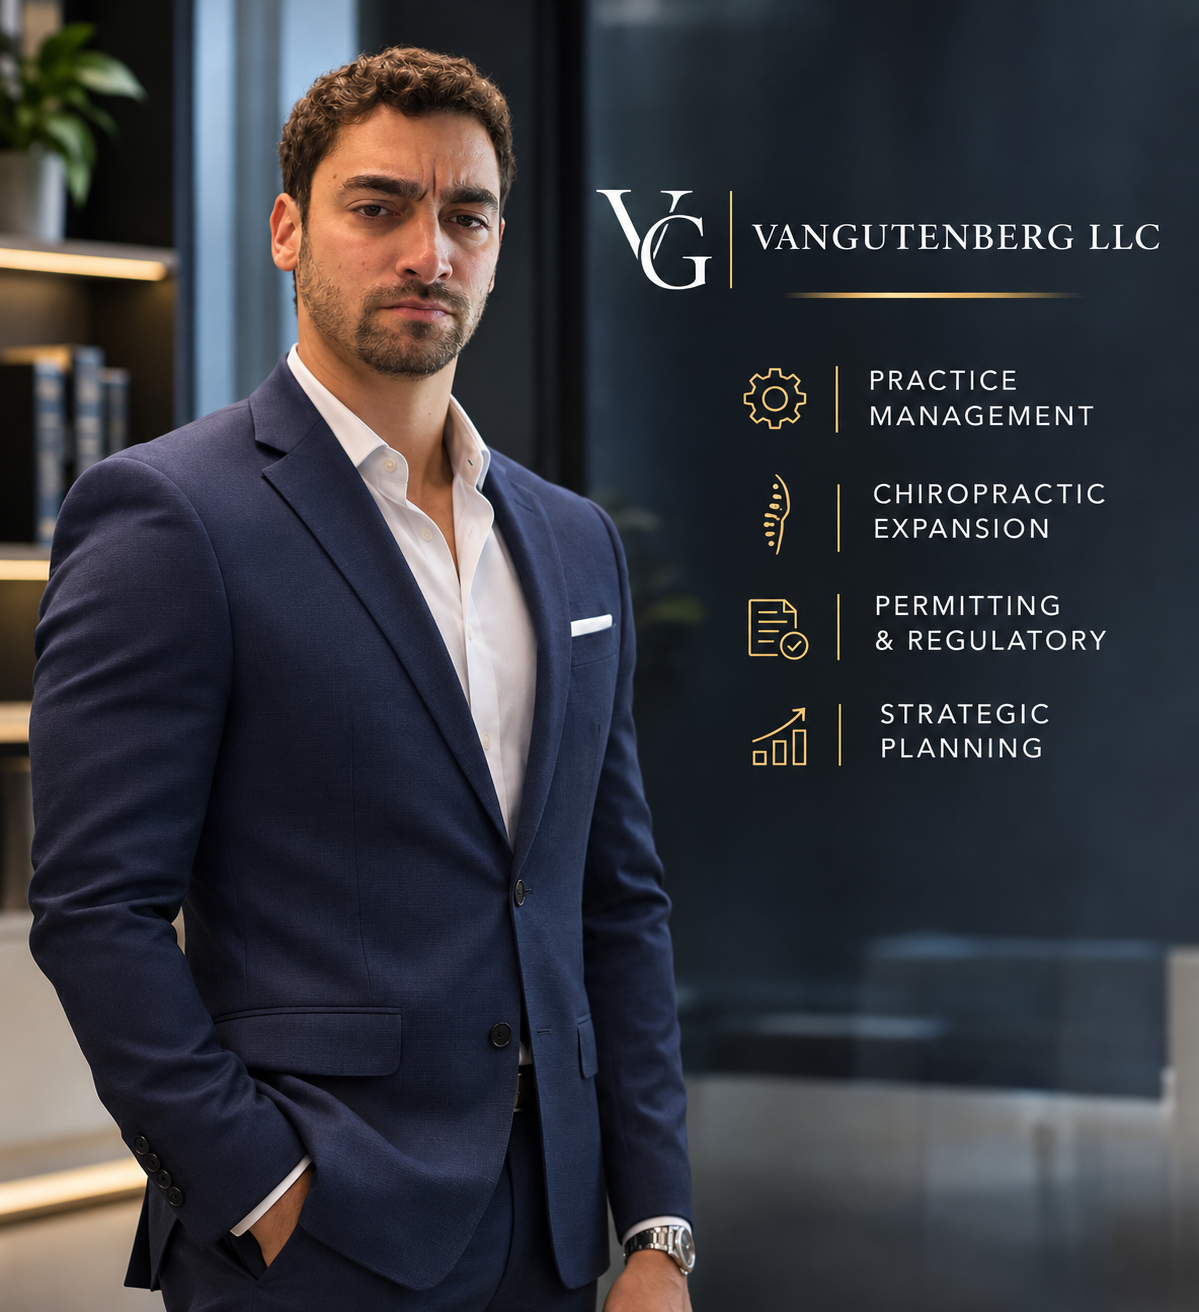
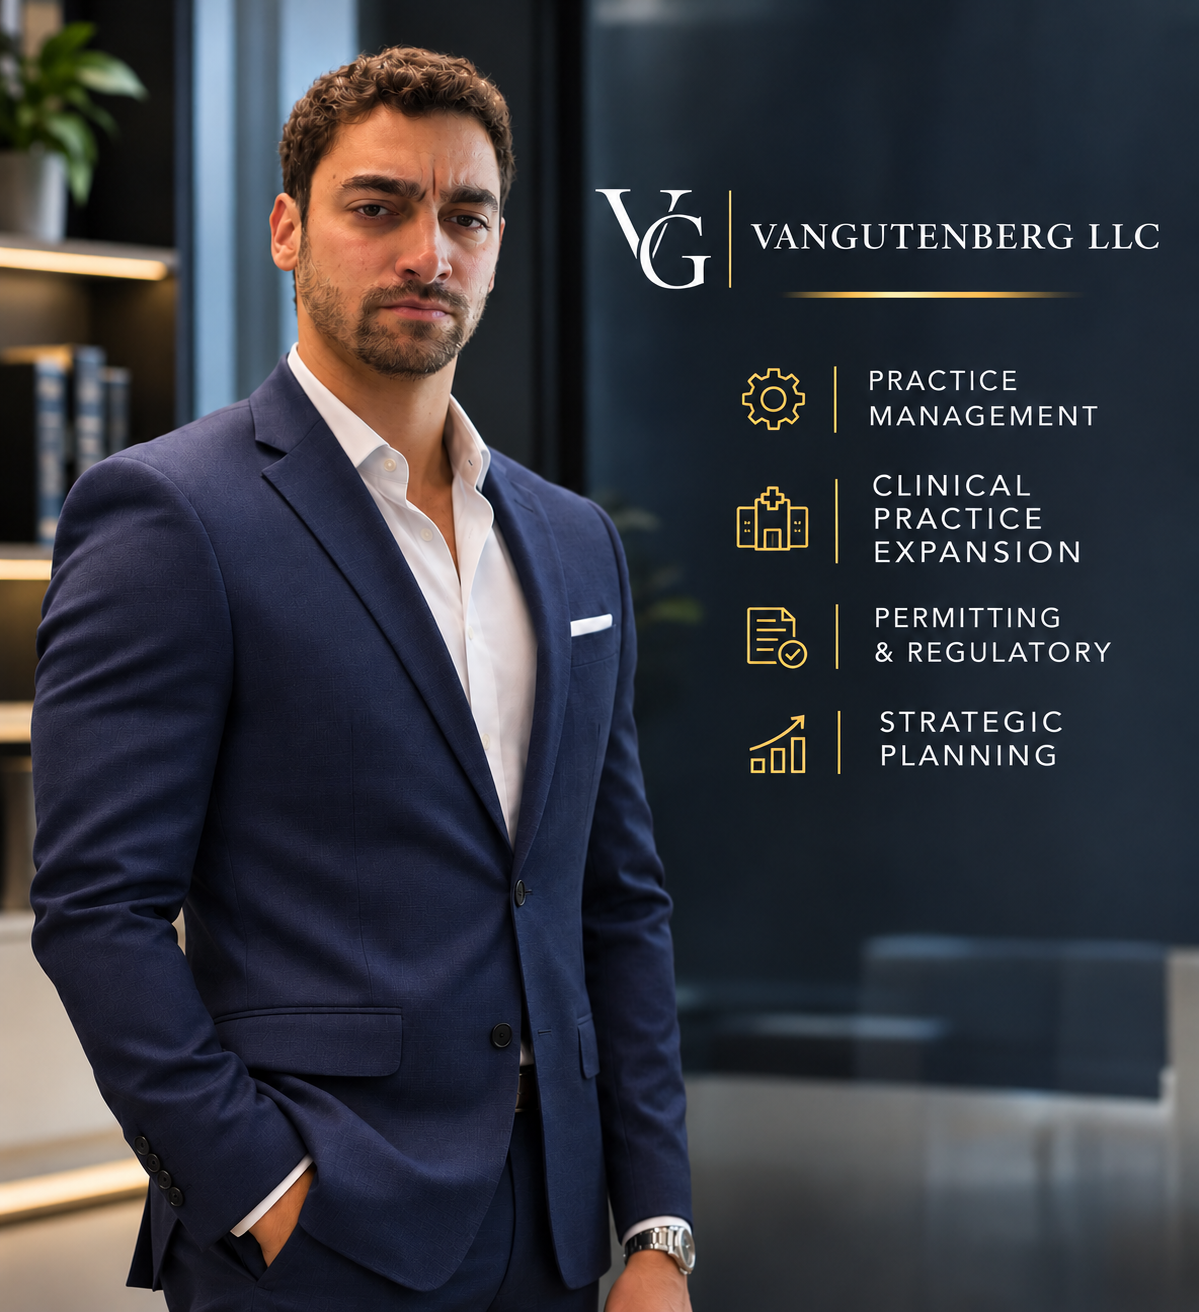
Add files via upload

diff --git a/index.html b/index.html
@@ -1,1 +1,2 @@
-<!DOCTYPE html><html lang="en"><head><meta charset="utf-8"><meta name="viewport" content="width=device-width, initial-scale=1"><meta name="description" content="VanGutenberg LLC provides healthcare practice management, growth strategy, expansion, permitting and operational consulting."><title>VanGutenberg LLC | Healthcare Consulting</title><link rel="icon" href="assets/favicon.ico"><link href="https://fonts.googleapis.com/css2?family=Montserrat:wght@400;500;600;700&family=Playfair+Display:wght@500;600&display=swap" rel="stylesheet"><link href="css/styles.css" rel="stylesheet"><style>:root{--vg-navy:#142130;--vg-gold:#c49b53}html{scroll-behavior:smooth}body{color:#273443}#mainNav{background:var(--vg-navy)}#mainNav .navbar-brand{color:#f0d29a;font-family:'Playfair Display',serif;font-size:1.45rem;letter-spacing:.04em}#mainNav .navbar-nav .nav-item .nav-link{font-size:.8rem}.masthead{background:#142130;min-height:0;display:block;padding:0;margin-top:70px}.hero-image{display:block;width:100%;height:auto}.hero-intro{background:#142130;color:#fff;text-align:center;padding:3rem 1rem 3.5rem}.hero-intro p{max-width:740px;margin:0 auto 1.5rem;color:#e2e6eb}@media(max-width:767px){.masthead{margin-top:65px}.hero-intro{padding:2rem 1rem 2.5rem}}.masthead .masthead-heading{font-size:clamp(2.2rem,5vw,4.4rem);line-height:1.2}.masthead .masthead-subheading{font-style:normal;font-size:1.15rem;letter-spacing:.15em;color:#e9c88c}.btn-primary{background:var(--vg-gold);border-color:var(--vg-gold);color:#142130}.btn-primary:hover{background:#b48b43;border-color:#b48b43}.section-heading{color:var(--vg-navy)}.gold-rule{height:3px;width:64px;background:var(--vg-gold);margin:1rem auto 2rem}.feature-image{width:100%;max-width:760px;height:auto;border-radius:4px;box-shadow:0 18px 45px rgba(0,0,0,.12)}.service-card{height:100%;padding:2rem;border:1px solid #e4e7ea;background:white}.service-card h3{font-size:1.15rem;color:var(--vg-navy)}.service-card p{color:#606a75;margin-bottom:0}.subtle{background:#f6f7f8}.about-copy{font-size:1.06rem;line-height:1.9}.contact-panel{background:var(--vg-navy);color:white;padding:4rem 2rem}.contact-panel h2{color:white}.contact-panel p{color:#d8dfe5}section{scroll-margin-top:75px}footer{font-size:.85rem}</style></head><body id="page-top"><nav class="navbar navbar-expand-lg navbar-dark fixed-top" id="mainNav"><div class="container"><a class="navbar-brand" href="#page-top">VG <span style="color:#fff;font-family:Montserrat,sans-serif;font-size:.85rem">| VANGUTENBERG LLC</span></a><button class="navbar-toggler" type="button" data-bs-toggle="collapse" data-bs-target="#navbarResponsive" aria-controls="navbarResponsive" aria-expanded="false" aria-label="Toggle navigation">Menu</button><div class="collapse navbar-collapse" id="navbarResponsive"><ul class="navbar-nav text-uppercase ms-auto py-4 py-lg-0"><li class="nav-item"><a class="nav-link" href="#page-top">Home</a></li><li class="nav-item"><a class="nav-link" href="#company">Company</a></li><li class="nav-item"><a class="nav-link" href="#services">Services</a></li><li class="nav-item"><a class="nav-link" href="#about">About Me</a></li><li class="nav-item"><a class="nav-link" href="#contact">Contact</a></li></ul></div></div></nav><header class="masthead"><img class="hero-image" src="assets/img/vangutenberg-homepage.png" alt="VanGutenberg LLC — practice management, chiropractic expansion, permitting and regulatory coordination, strategic planning" fetchpriority="high"><div class="hero-intro"><p>Helping healthcare practices strengthen operations, expand clinical services, and identify sustainable revenue opportunities.</p><a class="btn btn-primary btn-xl text-uppercase" href="#services">Explore Our Services</a></div></header><section class="page-section" id="company"><div class="container text-center"><h2 class="section-heading text-uppercase">VanGutenberg LLC</h2><div class="gold-rule"></div><p class="about-copy mx-auto" style="max-width:880px">VanGutenberg LLC is a healthcare consulting firm focused on the operational and strategic needs of growing practices. We support practice leaders with business planning, service expansion, operational improvement, and the coordination required to bring new capabilities into service.</p><p class="text-muted mx-auto" style="max-width:800px">Our approach combines clinical understanding with practical management strategies for existing and emerging healthcare operations.</p></div></section><section class="page-section subtle" id="services"><div class="container"><div class="text-center"><h2 class="section-heading text-uppercase">Consulting Services</h2><div class="gold-rule"></div><p class="section-subheading text-muted">Focused solutions for healthcare practices at every stage of growth.</p></div><div class="row g-4"><div class="col-md-6 col-lg-4"><div class="service-card"><h3>Practice Management</h3><p>Workflow analysis, staffing models, operational structure, and performance improvement.</p></div></div><div class="col-md-6 col-lg-4"><div class="service-card"><h3>Revenue Optimization</h3><p>Identifying opportunities to improve practice performance, service mix, and financial sustainability.</p></div></div><div class="col-md-6 col-lg-4"><div class="service-card"><h3>Practice Expansion</h3><p>Growth planning for chiropractic and medical practices, including additional specialties and locations.</p></div></div><div class="col-md-6 col-lg-4"><div class="service-card"><h3>Permitting &amp; Regulatory Coordination</h3><p>Supporting the planning and coordination of permitting, readiness, and regulatory requirements.</p></div></div><div class="col-md-6 col-lg-4"><div class="service-card"><h3>Service Line Activation</h3><p>Operational planning for expanded services such as psychiatry, neurology, and infusion care.</p></div></div><div class="col-md-6 col-lg-4"><div class="service-card"><h3>Strategic Planning</h3><p>Growth roadmaps, implementation priorities, and operational decision support.</p></div></div></div></div></section><section class="page-section" id="about"><div class="container"><div class="text-center"><h2 class="section-heading text-uppercase">Leadership &amp; Experience</h2><div class="gold-rule"></div></div><div class="row justify-content-center"><div class="col-lg-9 text-center"><h3 style="font-family:'Playfair Display',serif;color:var(--vg-navy)">Healthcare leadership with an operational perspective.</h3><p class="about-copy">VanGutenberg LLC draws on experience in clinical practice operations, healthcare systems improvement, and organizational planning. Its leadership background includes supporting chiropractic practices in South Florida and coordinating complex healthcare operational initiatives.</p><p class="about-copy">The firm emphasizes practical implementation: aligning people, processes, facilities, and service delivery to support growth.</p></div></div></div></section><section class="page-section subtle" id="contact"><div class="container"><div class="contact-panel text-center"><h2 class="section-heading text-uppercase">Let's Discuss Your Practice</h2><div class="gold-rule"></div><p class="mx-auto" style="max-width:650px">Considering a new location, expanded clinical services, or improvements to an existing practice? Connect with VanGutenberg LLC to discuss your goals.</p><p class="mt-4"><strong>VanGutenberg LLC</strong><br>South Florida · Healthcare Consulting</p><p class="small">Contact details will be added once confirmed.</p></div></div></section><footer class="footer py-4"><div class="container text-center">© <span id="year"></span> VanGutenberg LLC. All rights reserved.</div></footer><script src="https://cdn.jsdelivr.net/npm/bootstrap@5.2.3/dist/js/bootstrap.bundle.min.js"></script><script src="js/scripts.js"></script><script>document.getElementById('year').textContent=new Date().getFullYear()</script></body></html>
+<!DOCTYPE html>
+<html lang="en"><head><meta charset="utf-8"/><meta content="width=device-width, initial-scale=1" name="viewport"/><meta content="VanGutenberg LLC provides healthcare practice management, growth strategy, expansion, permitting and operational consulting." name="description"/><title>VanGutenberg LLC | Healthcare Consulting</title><link href="assets/favicon.ico" rel="icon"/><link href="https://fonts.googleapis.com/css2?family=Montserrat:wght@400;500;600;700&amp;family=Playfair+Display:wght@500;600&amp;display=swap" rel="stylesheet"/><link href="css/styles.css" rel="stylesheet"/><style>:root{--vg-navy:#142130;--vg-gold:#c49b53}html{scroll-behavior:smooth}body{color:#273443}#mainNav{background:var(--vg-navy)}#mainNav .navbar-brand{color:#f0d29a;font-family:'Playfair Display',serif;font-size:1.45rem;letter-spacing:.04em}#mainNav .navbar-nav .nav-item .nav-link{font-size:.8rem}.masthead{background:#142130;min-height:0;display:block;padding:0;margin-top:70px}.hero-image{display:block;width:100%;height:auto}.hero-intro{background:#142130;color:#fff;text-align:center;padding:3rem 1rem 3.5rem}.hero-intro p{max-width:740px;margin:0 auto 1.5rem;color:#e2e6eb}@media(max-width:767px){.masthead{margin-top:65px}.hero-intro{padding:2rem 1rem 2.5rem}}.masthead .masthead-heading{font-size:clamp(2.2rem,5vw,4.4rem);line-height:1.2}.masthead .masthead-subheading{font-style:normal;font-size:1.15rem;letter-spacing:.15em;color:#e9c88c}.btn-primary{background:var(--vg-gold);border-color:var(--vg-gold);color:#142130}.btn-primary:hover{background:#b48b43;border-color:#b48b43}.section-heading{color:var(--vg-navy)}.gold-rule{height:3px;width:64px;background:var(--vg-gold);margin:1rem auto 2rem}.feature-image{width:100%;max-width:760px;height:auto;border-radius:4px;box-shadow:0 18px 45px rgba(0,0,0,.12)}.service-card{height:100%;padding:2rem;border:1px solid #e4e7ea;background:white}.service-card h3{font-size:1.15rem;color:var(--vg-navy)}.service-card p{color:#606a75;margin-bottom:0}.subtle{background:#f6f7f8}.about-copy{font-size:1.06rem;line-height:1.9}.contact-panel{background:var(--vg-navy);color:white;padding:4rem 2rem}.contact-panel h2{color:white}.contact-panel p{color:#d8dfe5}section{scroll-margin-top:75px}footer{font-size:.85rem}</style></head><body id="page-top"><nav class="navbar navbar-expand-lg navbar-dark fixed-top" id="mainNav"><div class="container"><a class="navbar-brand" href="#page-top">VG <span style="color:#fff;font-family:Montserrat,sans-serif;font-size:.85rem">| VANGUTENBERG LLC</span></a><button aria-controls="navbarResponsive" aria-expanded="false" aria-label="Toggle navigation" class="navbar-toggler" data-bs-target="#navbarResponsive" data-bs-toggle="collapse" type="button">Menu</button><div class="collapse navbar-collapse" id="navbarResponsive"><ul class="navbar-nav text-uppercase ms-auto py-4 py-lg-0"><li class="nav-item"><a class="nav-link" href="#page-top">Home</a></li><li class="nav-item"><a class="nav-link" href="#company">Company</a></li><li class="nav-item"><a class="nav-link" href="#services">Services</a></li><li class="nav-item"><a class="nav-link" href="#about">About Me</a></li><li class="nav-item"><a class="nav-link" href="#contact">Contact</a></li></ul></div></div></nav><header class="masthead"><img alt="VanGutenberg LLC — Dr. Ricardo Velez, healthcare consulting, clinical practice expansion and strategic planning" class="hero-image" fetchpriority="high" src="assets/img/vangutenberg-homepage.png"/><div class="hero-intro"><p>Led by Dr. Ricardo Velez, VanGutenberg LLC helps healthcare organizations strengthen operations, expand clinical services, and develop sustainable growth strategies.</p><a class="btn btn-primary btn-xl text-uppercase" href="#services">Explore Our Services</a></div></header><section class="page-section" id="company"><div class="container text-center"><h2 class="section-heading text-uppercase">VanGutenberg LLC</h2><div class="gold-rule"></div><p class="about-copy mx-auto" style="max-width:880px">Founded and led by Dr. Ricardo Velez, VanGutenberg LLC is a healthcare consulting firm focused on practice management, revenue optimization, and the strategic expansion of clinical services. We help existing and emerging healthcare organizations plan growth, coordinate operational readiness, and bring new capabilities into service.</p><p class="text-muted mx-auto" style="max-width:800px">We support the development and expansion of neurology offices, psychiatry practices and outpatient mental health services, inpatient mental health programs, diagnostic imaging centers, primary care clinics, chiropractic practices, and other healthcare service lines.</p></div></section><section class="page-section subtle" id="services"><div class="container"><div class="text-center"><h2 class="section-heading text-uppercase">Consulting Services</h2><div class="gold-rule"></div><p class="section-subheading text-muted">Focused solutions for healthcare practices at every stage of growth.</p></div><div class="row g-4"><div class="col-md-6 col-lg-4"><div class="service-card"><h3>Practice Management</h3><p>Operational assessments, workflow design, staffing strategies, and performance improvement for clinical practices.</p></div></div><div class="col-md-6 col-lg-4"><div class="service-card"><h3>Revenue Optimization</h3><p>Identifying opportunities to strengthen practice revenue, service mix, productivity, and long-term financial performance.</p></div></div><div class="col-md-6 col-lg-4"><div class="service-card"><h3>Clinical Practice Expansion</h3><p>Expansion strategy and operational planning for neurology, psychiatry, outpatient and inpatient mental health, imaging centers, primary care clinics, and chiropractic practices.</p></div></div><div class="col-md-6 col-lg-4"><div class="service-card"><h3>Permitting &amp; Regulatory Coordination</h3><p>Supporting permitting processes, facility readiness, and coordination of applicable regulatory requirements.</p></div></div><div class="col-md-6 col-lg-4"><div class="service-card"><h3>Clinical Service Activation</h3><p>Planning the operational launch of new locations, specialty clinics, and expanded clinical programs.</p></div></div><div class="col-md-6 col-lg-4"><div class="service-card"><h3>Strategic Planning</h3><p>Market opportunities, growth roadmaps, expansion priorities, and implementation support.</p></div></div></div></div></section><section class="page-section" id="about"><div class="container"><div class="text-center"><h2 class="section-heading text-uppercase">Leadership &amp; Experience</h2><div class="gold-rule"></div></div><div class="row justify-content-center"><div class="col-lg-9 text-center"><h3 style="font-family:'Playfair Display',serif;color:var(--vg-navy)">Dr. Ricardo Velez | Founder &amp; Healthcare Consultant</h3><p class="about-copy">Dr. Ricardo Velez brings a multidisciplinary background in clinical care, healthcare operations, practice management, and organizational improvement. His experience includes managing chiropractic practices across South Florida, supporting healthcare operations, and leading complex planning, organizational development, and performance improvement initiatives. His work bridges clinical operations and business strategy to help healthcare organizations improve service delivery and pursue sustainable growth.</p><p class="about-copy">His academic preparation includes a Doctor of Chiropractic degree and graduate education in health law, medical education, and disaster and emergency management. He combines clinical insight with operational strategy to help organizations expand services, improve performance, and navigate implementation challenges.</p></div></div></div></section><section class="page-section subtle" id="contact"><div class="container"><div class="contact-panel text-center"><h2 class="section-heading text-uppercase">Let's Discuss Your Practice</h2><div class="gold-rule"></div><p class="mx-auto" style="max-width:650px">Considering a new location, expanded clinical services, or improvements to an existing practice? Connect with VanGutenberg LLC to discuss your goals.</p><p class="mt-4"><strong>VanGutenberg LLC</strong><br/>South Florida · Healthcare Consulting</p><p class="mt-4">Call or text: <a href="tel:+13057641574" style="color:#f0d29a;font-weight:700;font-size:1.4rem">305-764-1574</a></p><p>For business inquiries, call or text us directly. <a href="sms:+13057641574" style="color:#f0d29a;text-decoration:underline">Send a text message</a>.</p></div></div></section><footer class="footer py-4"><div class="container text-center">© <span id="year"></span> VanGutenberg LLC. All rights reserved.</div></footer><script src="https://cdn.jsdelivr.net/npm/bootstrap@5.2.3/dist/js/bootstrap.bundle.min.js"></script><script src="js/scripts.js"></script><script>document.getElementById('year').textContent=new Date().getFullYear()</script></body></html>

diff --git a/README.md b/README.md
@@ -1,5 +1,5 @@
-# VanGutenberg LLC
+VanGutenberg LLC — GitHub Pages website
 
-GitHub Pages website. Upload the contents of this folder to the root of the existing repository. Keep the `CNAME` file. Contact information is intentionally a placeholder until confirmed.
+Upload the contents of this folder to the root of your existing GitHub repository. Keep CNAME with www.vangutenberg.com.
 
-Homepage updated: main banner uses assets/img/vangutenberg-homepage.png. Upload all extracted contents to the repository root. Keep CNAME.
+The homepage image uses the approved Clinical Practice Expansion design.
